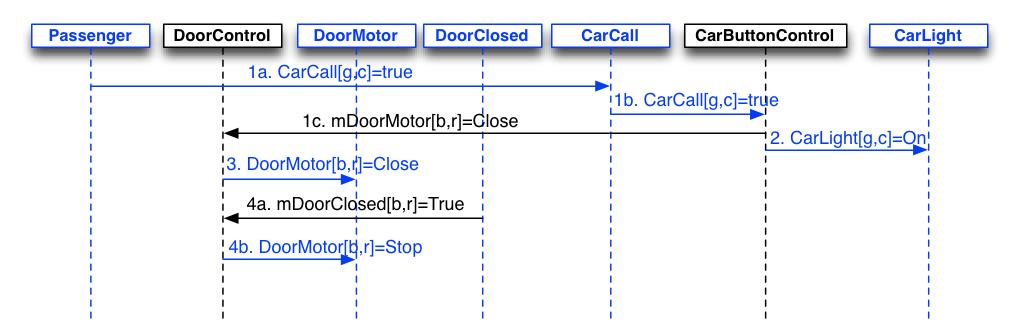
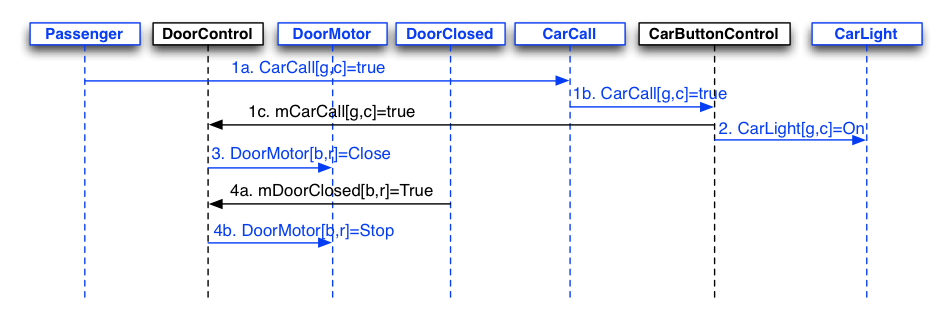
Fixed issues in sequence diagrams 2A, 3A, 3B

diff --git a/portfolio/logs/issuelog.html b/portfolio/logs/issuelog.html
@@ -136,6 +136,24 @@
           <td style="vertical-align: top;">SD3A<br>
           </td>
         </tr>
+				<tr>
+          <td style="vertical-align: top;">4<br>
+          </td>
+          <td style="vertical-align: top;">9/20/2012<br>
+          </td>
+          <td style="vertical-align: top;">9/20/2012<br>
+          </td>
+          <td style="vertical-align: top;">jtiu<br>
+          </td>
+          <td style="vertical-align: top;">SD2A, SD3A, SD3B<br>
+          </td>
+          <td style="vertical-align: top;">Wrong event triggers for certain events.<br>
+          </td>
+          <td style="vertical-align: top;">Fixed the sequence diagram messages for those event triggers.<br>
+          </td>
+          <td style="vertical-align: top;">SD2A, SD2B, SD3A<br>
+          </td>
+        </tr>
 
         <tr>
           <td style="vertical-align: top;"><br>
